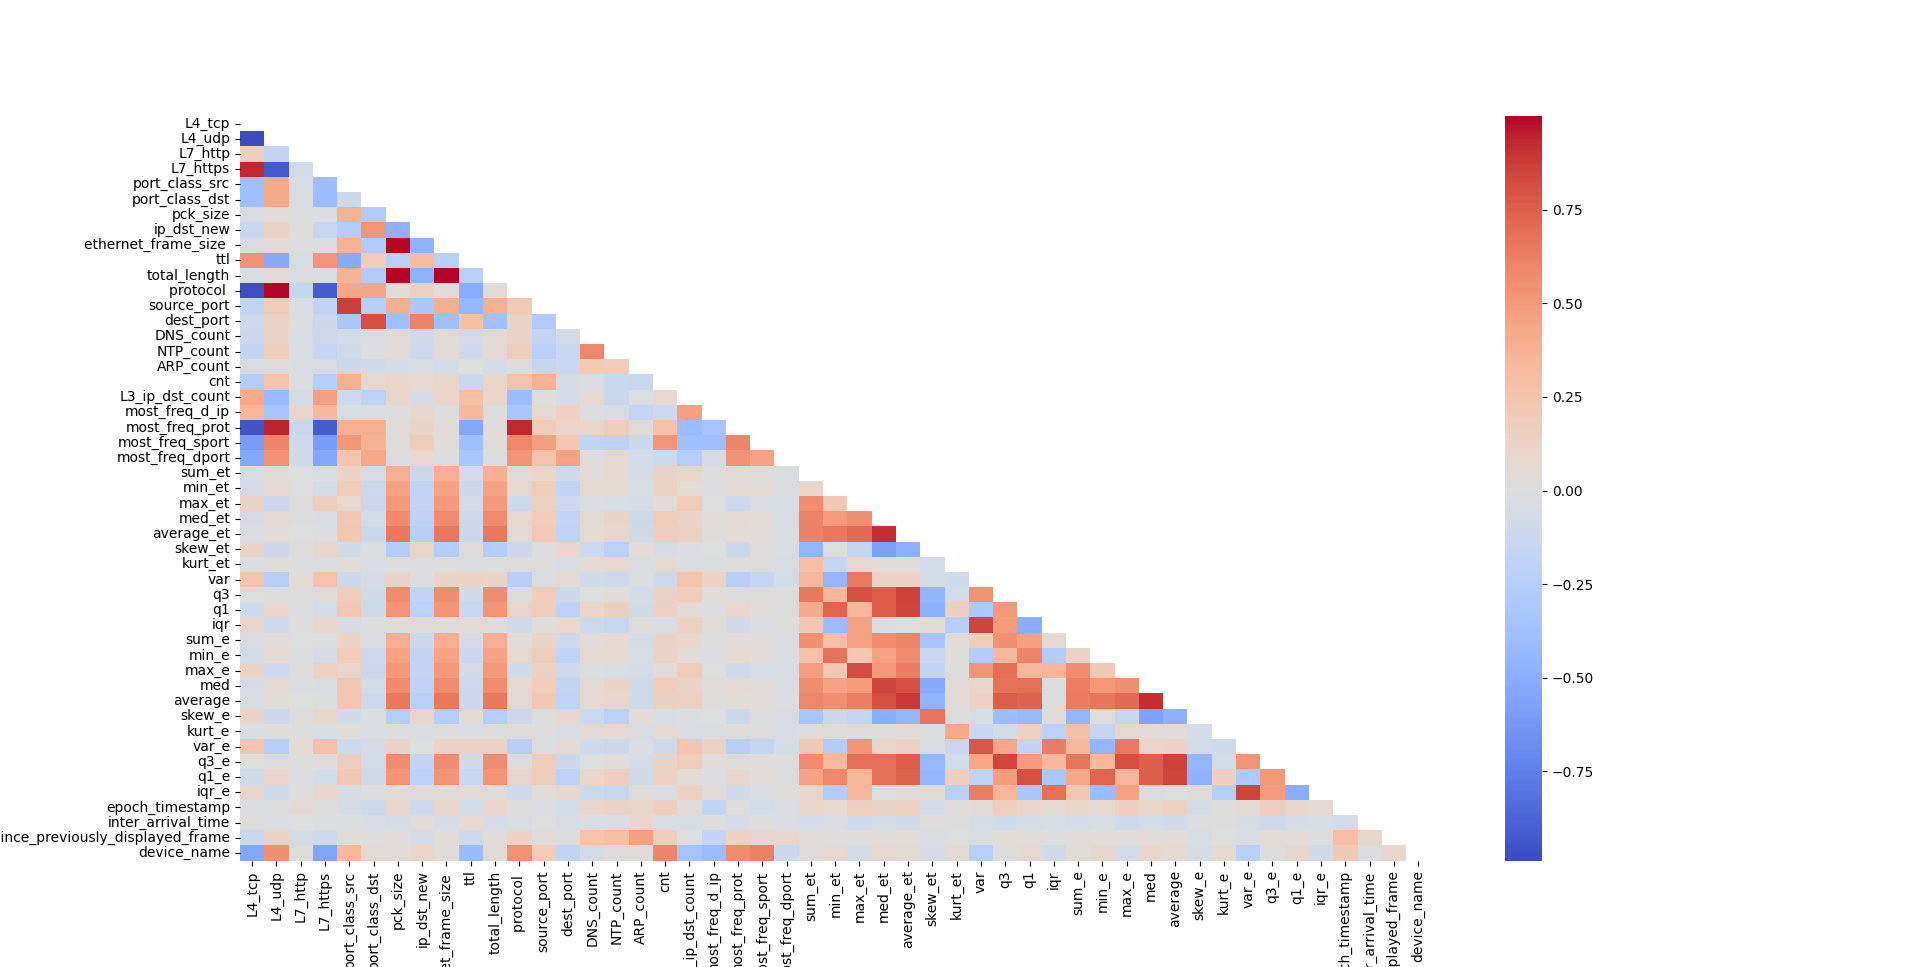
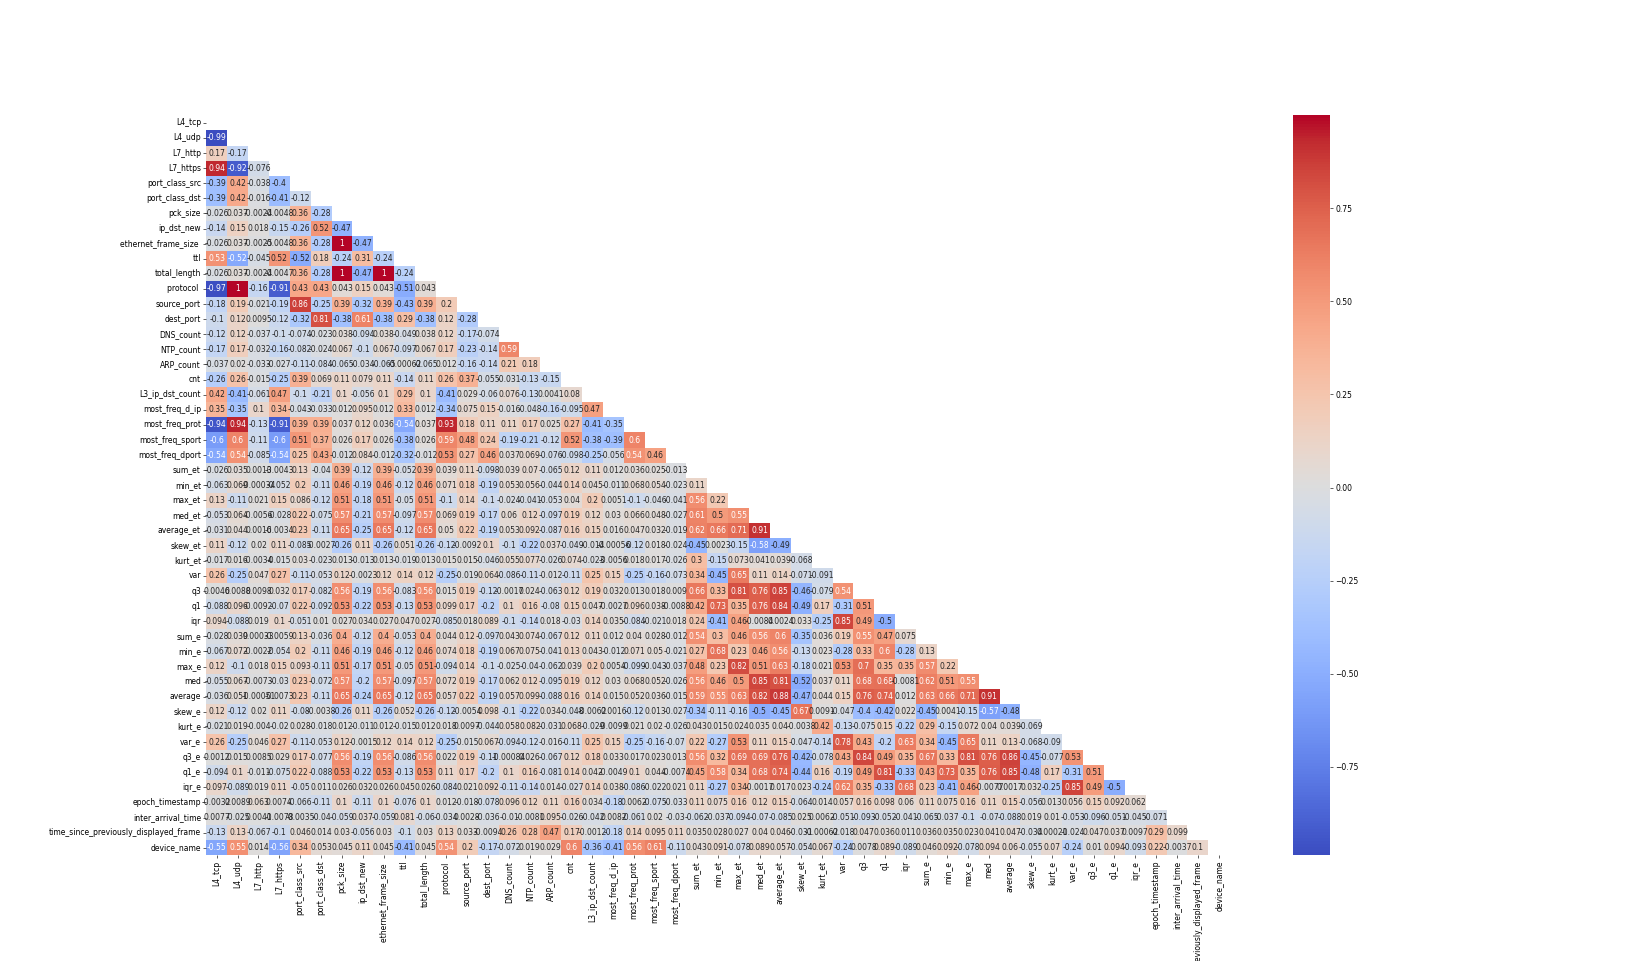
adjustements

diff --git a/analyze.py b/analyze.py
@@ -8,8 +8,8 @@ def correlation_heat_map(df):
     df['device_name'] = df['device_name'].map({'amazonplug': 0.0, 'armcrest': 1.0,'arlobasecam':2.0,'arloqcam':3.0,'atomicoffeemaker':4.0,'boruncam':5.0,'dlinkcam':6.0,'echodot':7.0,'echospot':8.0,'echostudio':9.0,'eufyhomebase':10.0,'globelamp':11.0,'heimvisioncam':12.0,'heimvisionlamp':13.0,'homeeyecam':14.0,'luohecam':15.0,'nestcam':16.0,'nestmini':17.0,'netatmocam':18.0,'philipshue':19.0,'roomba':20.0,'simcam':21.0,'smartboard':22.0,'sonos':23.0,'teckin1':24.0,'teckin2':25.0,'yutron1':26.0,'yutron2':27.0})
     corr_matrix = df.corr()
     matrix = np.triu(corr_matrix)
-    plt.subplots(figsize=(30,25))
-    sns.heatmap(corr_matrix, cmap='coolwarm', mask=matrix)
+    plt.subplots(figsize=(30,25), dpi=55)
+    sns.heatmap(corr_matrix, cmap='coolwarm', mask=matrix, annot=True)
     plt.show()
 
 def feature_importance(df):
@@ -17,19 +17,40 @@ def feature_importance(df):
     model = RandomForestClassifier()
     model.fit(df,d)
     s = pd.Series(model.feature_importances_, index=df.columns)
-    s = s.nlargest(4)
-    s.plot(kind='barh')
+    s = s.nlargest(5)
+    s.plot(kind='bar')
     plt.show()
 
 def pairplot_feature_importance(df):
-    sns.pairplot(df[['most_freq_dport','most_freq_d_ip','most_freq_sport','epoch_timestamp']])
-    plt.title("Pair plot most important features")
+    sns.pairplot(data=df[['most_freq_dport','most_freq_d_ip','most_freq_sport','epoch_timestamp', 'L3_ip_dst_count', 'device_name']], hue="device_name")
+    plt.suptitle("Pair plot most important features")
     plt.show()
 
 def pairplot_feature_importance_per_device(df):
     for name in df['device_name']:
         d = df[df['device_name'] == name]
-        sns.pairplot(d[['most_freq_dport','most_freq_d_ip','most_freq_sport','epoch_timestamp']])
+        sns.pairplot(d[['most_freq_dport','most_freq_d_ip','most_freq_sport','epoch_timestamp']], hue="device_name")
         plt.title("Pair plot " + name)
         plt.savefig("./pairplots/"+name+".png")
         plt.show()
+
+def kde_plot_mfreqdport(df):
+    sns.kdeplot(data=df,x="most_freq_dport",hue="device_name")
+    plt.show()
+
+def kde_plot_mfreqsport(df):
+    sns.kdeplot(data=df,x="most_freq_sport",hue="device_name")
+    plt.show()
+
+def kde_plot_mfreqdip(df):
+    sns.kdeplot(data=df,x="most_freq_d_ip",hue="device_name")
+    plt.show()
+
+def kde_plot_epochtimestamp(df):
+    sns.kdeplot(data=df,x="epoch_timestamp",hue="device_name")
+    plt.show()
+
+def line_plot_arlobasecam_dip_ts(df):
+    d = df[df["device_name"] == "arlobasestationcam"]
+    sns.lineplot(data=d, x="most_freq_dport", y="epoch_timestamp")
+    plt.show()

diff --git a/main.py b/main.py
@@ -15,6 +15,7 @@ def clean_dataframe(df):
     df.set_index('Unnamed: 0', inplace=True)
     df.dropna()
     df.drop_duplicates()
+    df['device_name'] = df['device_name'].astype('category')
 
 clean_dataframe(df)
 
@@ -36,5 +37,10 @@ clean_dataframe(df)
 # ========================================================================= Analysis =========================================================================
 #analyze.correlation_heat_map(df)
 #analyze.feature_importance(df)
-analyze.pairplot_feature_importance(df)
+analyze.pairplot_feature_importance(df) # Il faut grouper les devices par types et faire le pair plot, aussi masquer la moitié inutile
+#analyze.kde_plot_mfreqdip(df)
+#analyze.kde_plot_mfreqdport(df)
+#analyze.kde_plot_mfreqsport(df)
+#analyze.kde_plot_epochtimestamp(df)
+#analyze.line_plot_arlobasecam_dip_ts(df)
 
